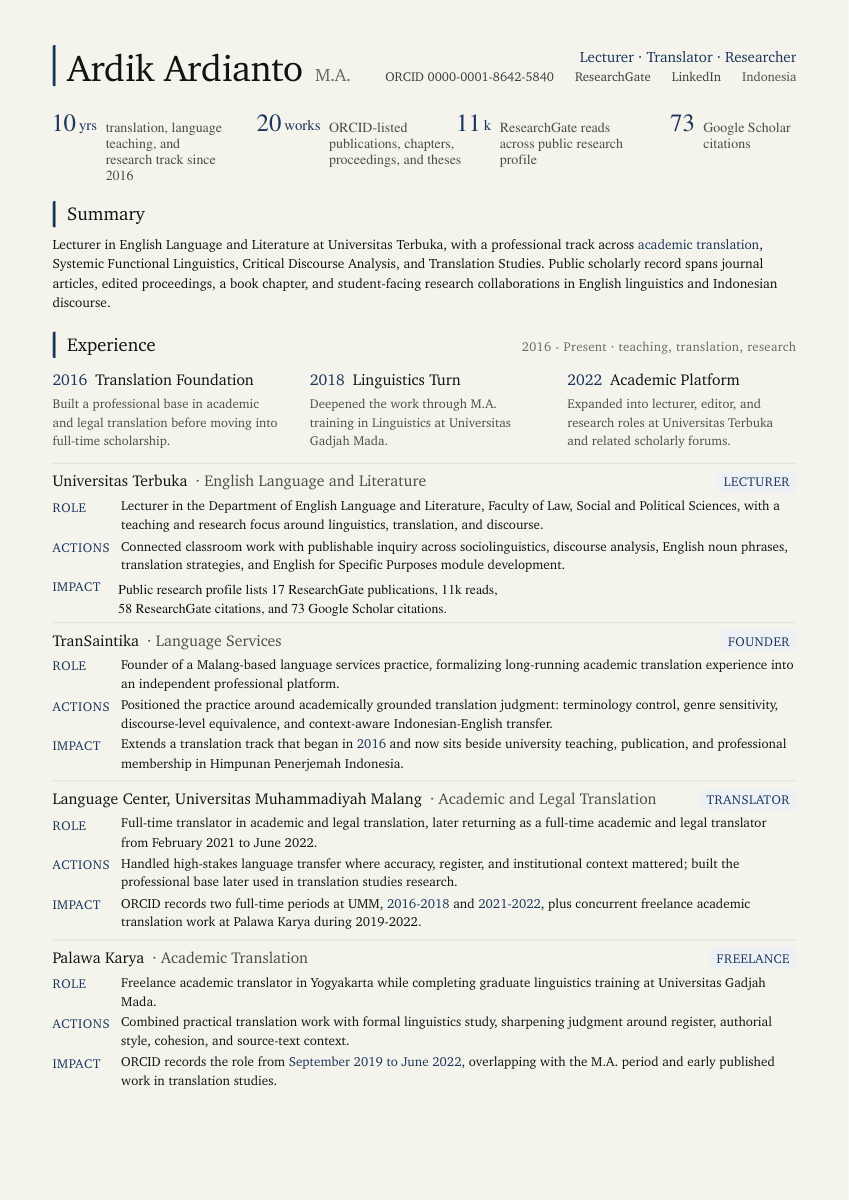
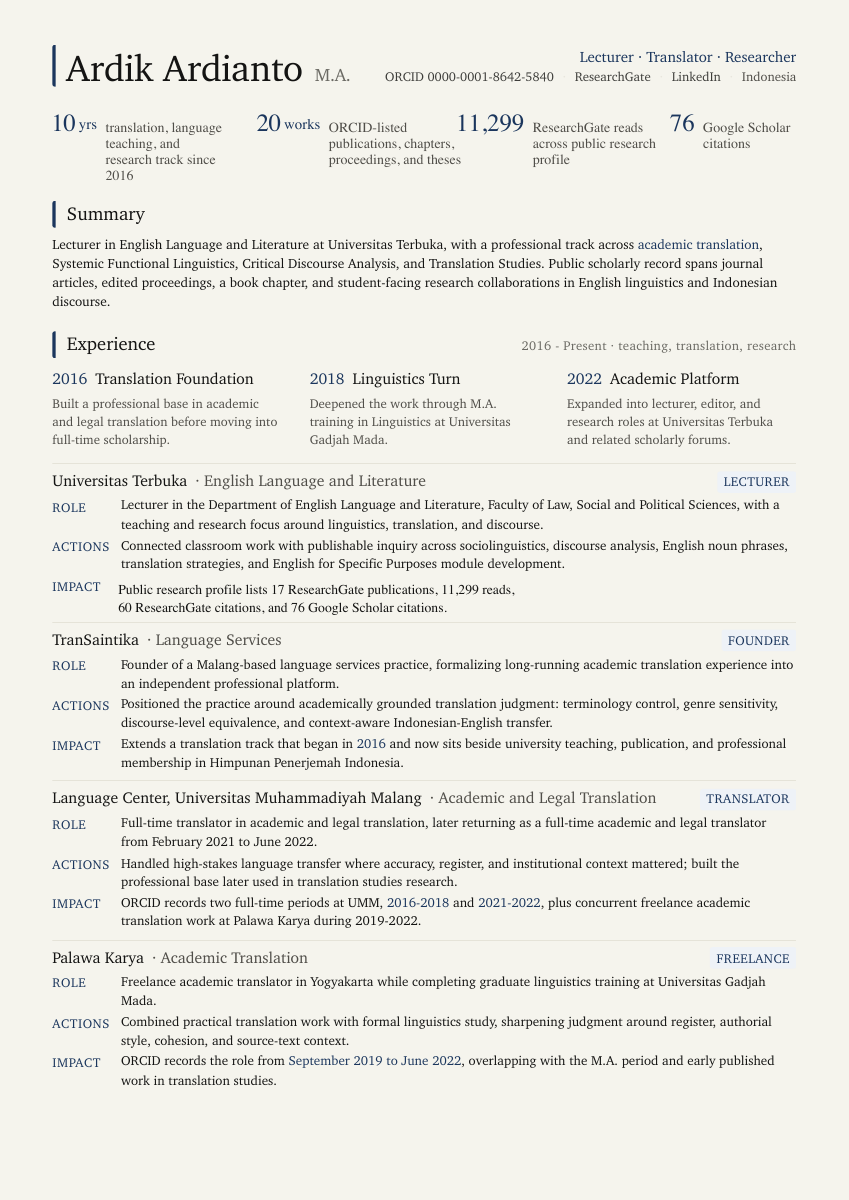
Refresh verified scholarly metrics

diff --git a/index.html b/index.html
@@ -618,15 +618,15 @@
               <span>ORCID-listed publications, chapters, proceedings, and theses</span>
             </div>
             <div class="metric">
-              <b data-metric="researchgate-reads">11k</b>
+              <b data-metric="researchgate-reads">11,299</b>
               <span>ResearchGate reads across the public research profile</span>
             </div>
             <div class="metric">
-              <b data-metric="researchgate-citations">58</b>
+              <b data-metric="researchgate-citations">60</b>
               <span>ResearchGate citations</span>
             </div>
             <div class="metric">
-              <b data-metric="google-scholar-citations">73</b>
+              <b data-metric="google-scholar-citations">76</b>
               <span>Google Scholar citations</span>
             </div>
           </div>

diff --git a/scripts/update-site-metrics.py b/scripts/update-site-metrics.py
@@ -121,9 +121,6 @@ def extract_researchgate_metrics() -> tuple[int | None, int | None]:
 
 
 def format_metric(value: int) -> str:
-    if abs(value) >= 1_000:
-        compact = f"{value / 1_000:.1f}".rstrip("0").rstrip(".")
-        return f"{compact}k"
     return f"{value:,}"
 
 
@@ -141,6 +138,13 @@ def preserve_on_error(key: str, extractor) -> int:
     except Exception as exc:
         print(f"{key} preserved: {exc}", file=sys.stderr)
         return current_metric(key)
+
+
+def preserve_cumulative_floor(key: str, value: int | None) -> int | None:
+    """Keep authenticated cumulative totals when public pages lag behind."""
+    if value is None:
+        return None
+    return max(value, current_metric(key))
 
 
 def update_metric(page: str, key: str, value: int | None) -> tuple[str, bool]:
@@ -174,11 +178,15 @@ def main() -> int:
     researchgate_reads, researchgate_citations = extract_researchgate_metrics()
     metrics = {
         "orcid-works": preserve_on_error("orcid-works", extract_orcid_works),
-        "researchgate-reads": researchgate_reads,
-        "researchgate-citations": researchgate_citations,
-        "google-scholar-citations": preserve_on_error(
+        "researchgate-reads": preserve_cumulative_floor(
+            "researchgate-reads", researchgate_reads
+        ),
+        "researchgate-citations": preserve_cumulative_floor(
+            "researchgate-citations", researchgate_citations
+        ),
+        "google-scholar-citations": preserve_cumulative_floor(
             "google-scholar-citations",
-            extract_scholar_citations,
+            preserve_on_error("google-scholar-citations", extract_scholar_citations),
         ),
     }
     changed = update_index(metrics)
